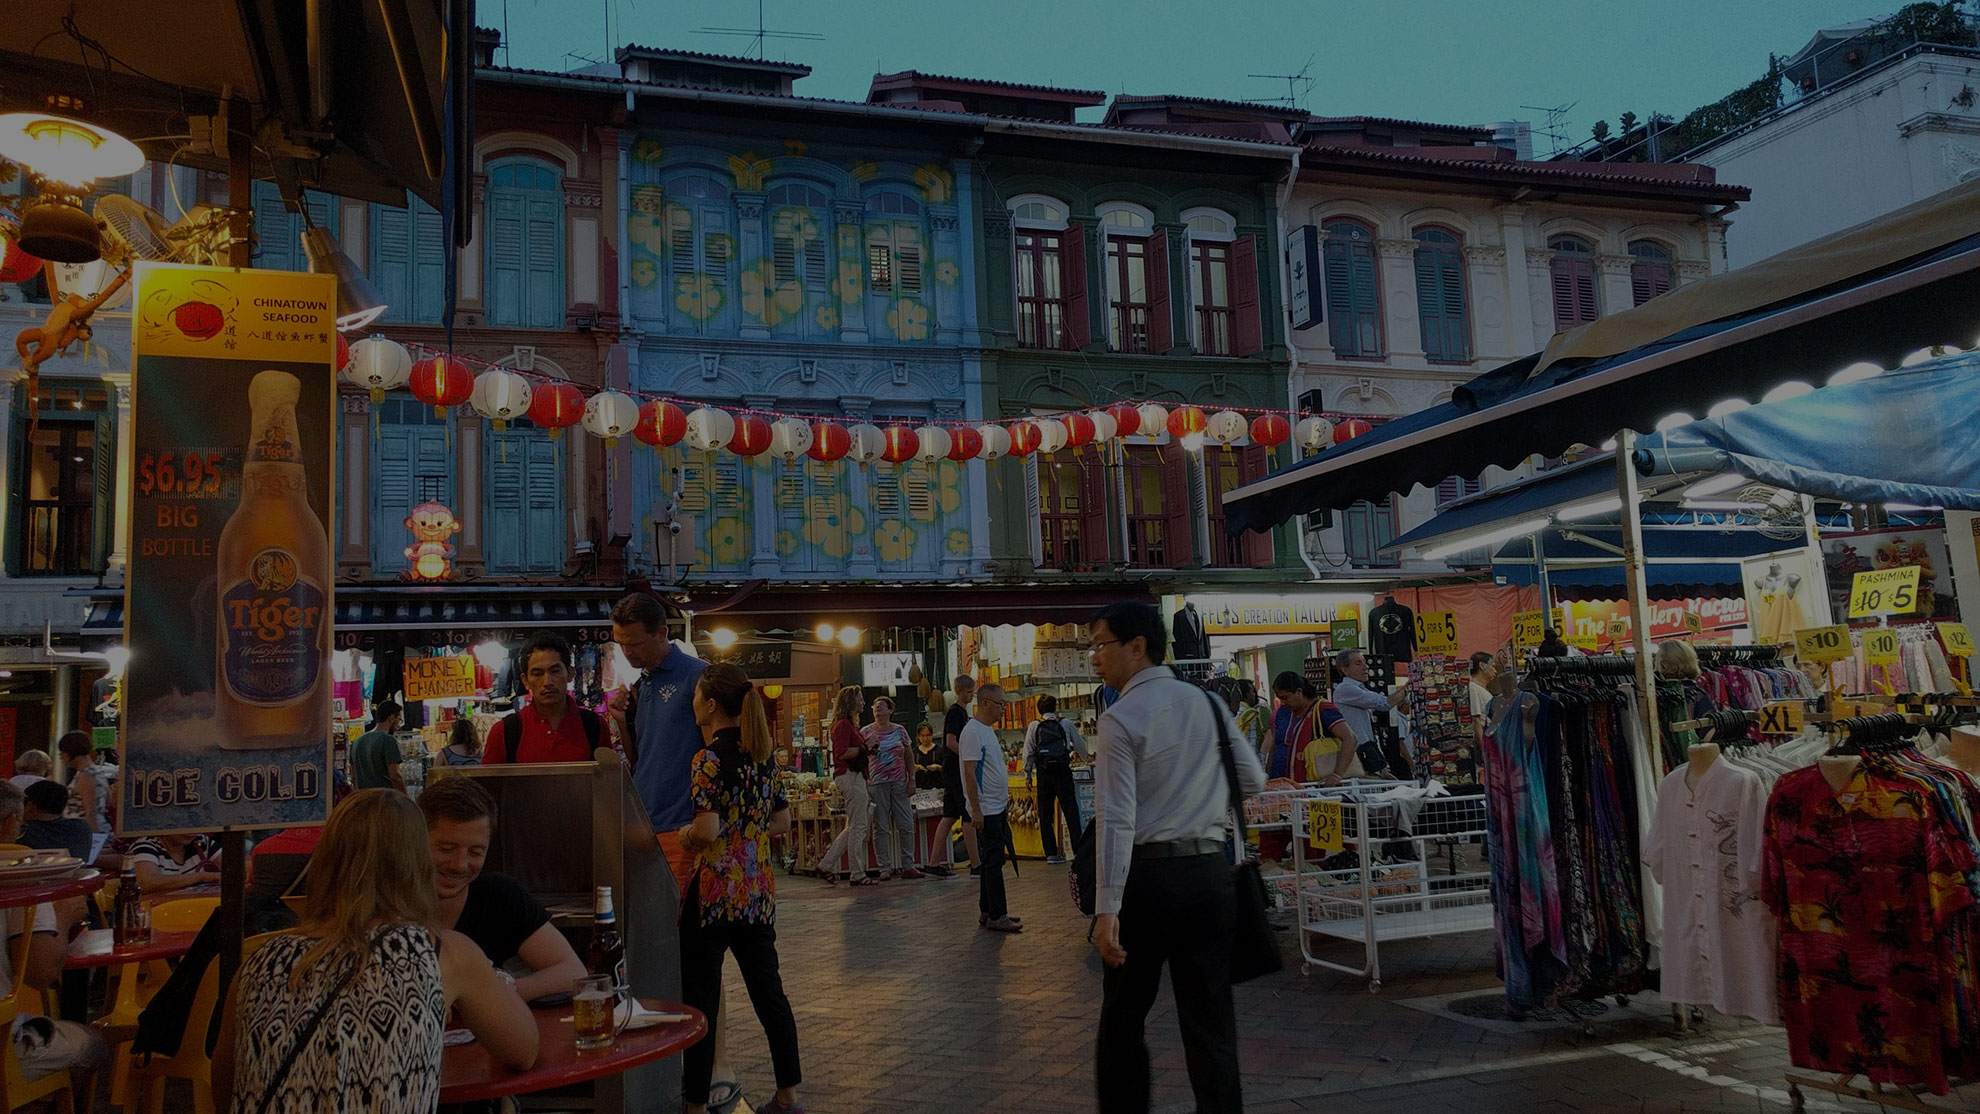
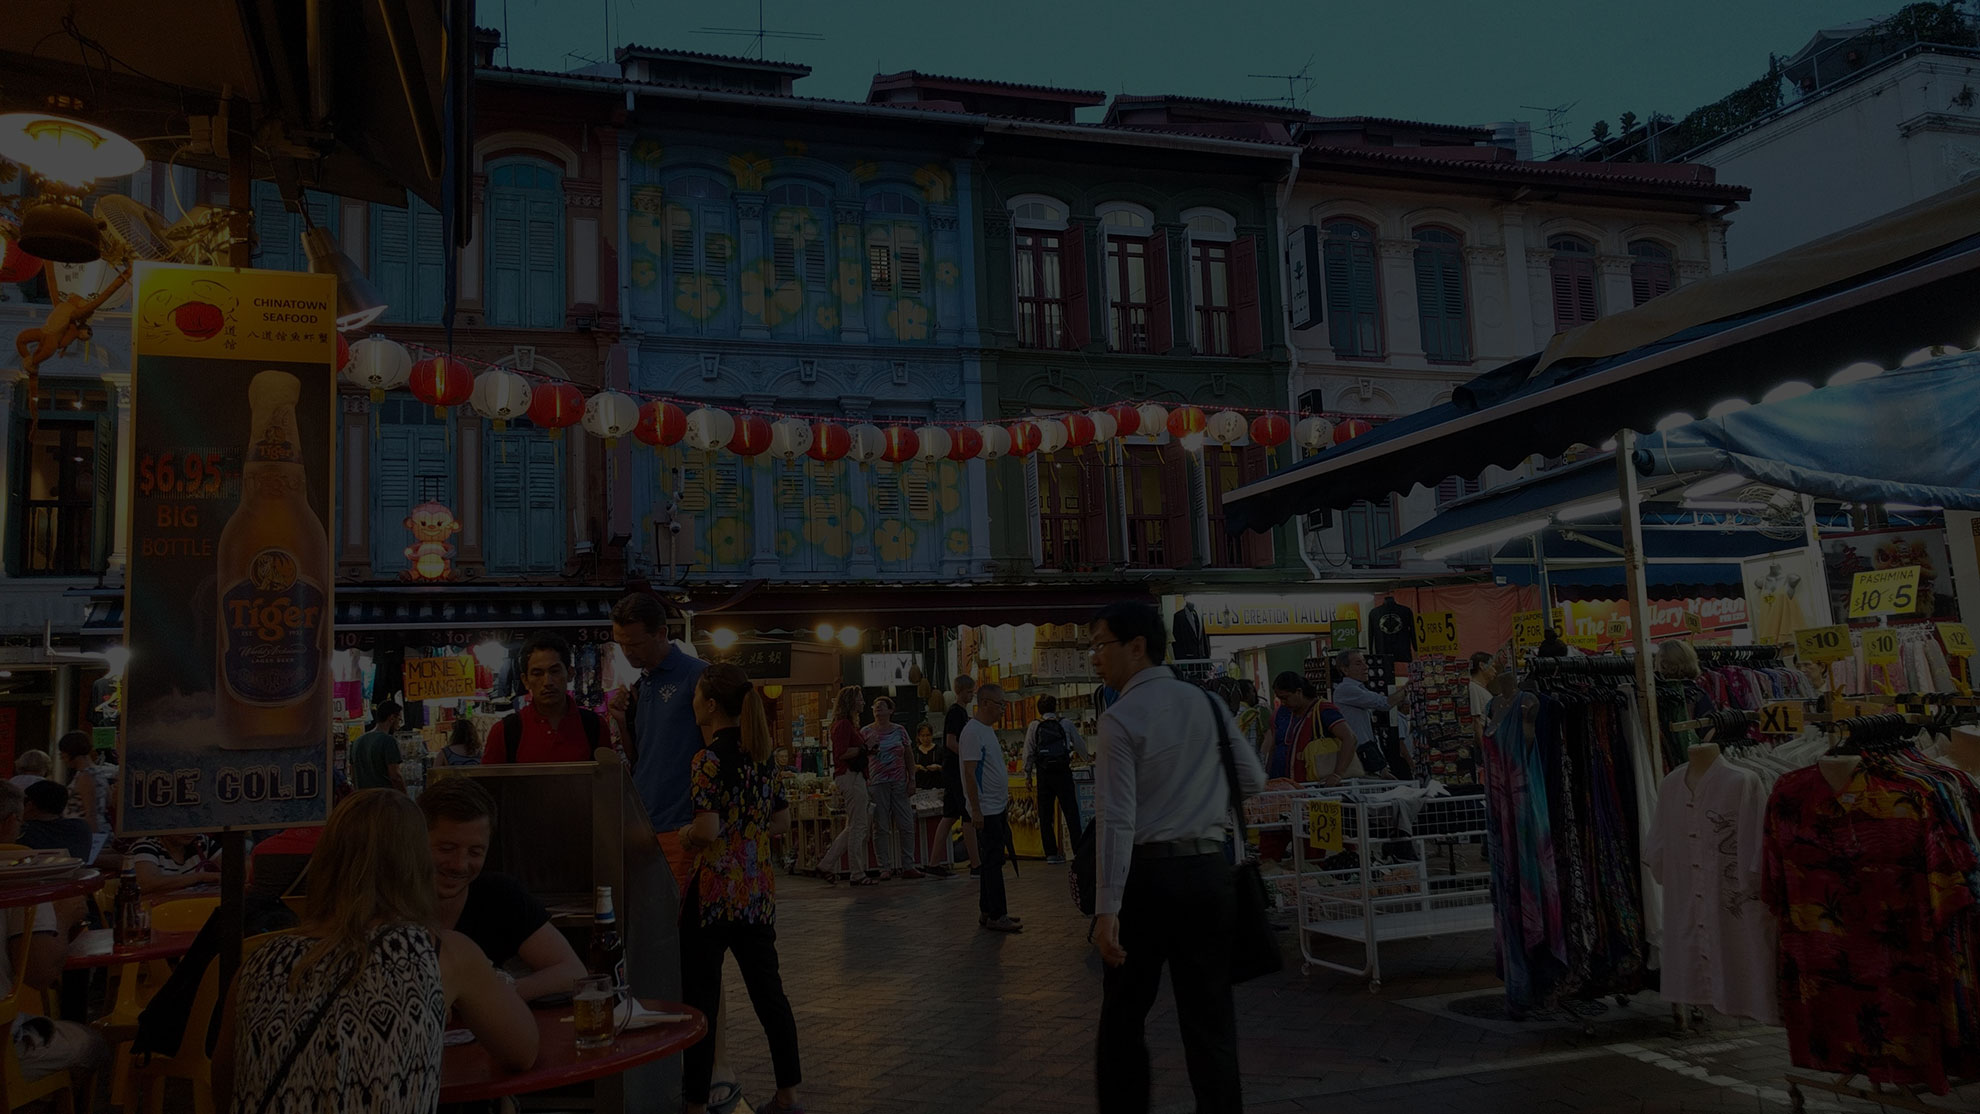
wip: poor attempt at animating phonemes

diff --git a/src/components/Input.vue b/src/components/Input.vue
@@ -1,6 +1,20 @@
 <template>
     <section class="phonetic-input">
-            <p>for when you can't remember <span class="phonetic-input--wrap"><span>{{ phonemeOne.phonetic }}</span> from <span>{{ phonemeTwo.phonetic }}</span></span></p>
+            <p>for when you can't remember
+                <span class="phonetic-input--wrap">
+                    <div>
+                        <ul>
+                            <li v-for="phoneme in phonemeOneList" style="color: white">{{phoneme.phonetic}}</li>
+                        </ul>
+                    </div>
+                    <!--
+                    from
+                    <ul v-for="phoneme in phonemeTwoList">
+                        <li style="color: white">{{phoneme.phonetic}}</li>
+                    </ul>
+                -->
+                </span>
+            </p>
             <label id="phonetic-input--label" for="phonetic-input">Type in what you're trying to say</label>
             <input type="text" id="phonetic-input" class="phonetic-input" v-model="input" ref="phoneticInput" @keyup="updateOutput()" placeholder="Type in what you're trying to say" aria-labelledby="phonetic-input--label" autofocus>
     </section>
@@ -10,6 +24,7 @@
 import PhoneticAlphabet from '@/alphabet.json';
 
 const random = require('lodash/random');
+const includes = require('lodash/includes');
 
 export default {
   name: 'Input',
@@ -18,13 +33,17 @@ export default {
       input: '',
       phonemeOne: '',
       phonemeTwo: '',
+      phonemeOneList: [],
+      phonemeTwoList: [],
     };
   },
   mounted() {
     this.$root.$emit('phoneticUpdate', this.input);
+    this.initPhonemeLists();
     this.updatePhonetics();
 
     setInterval(() => {
+      this.updatePhonemeLists();
       this.updatePhonetics();
     }, 2000);
 
@@ -34,12 +53,55 @@ export default {
     updateOutput() {
       this.$root.$emit('phoneticUpdate', this.input);
     },
+    addPhonemeToLists() {
+      let phonemeOne = this.getRandomPhoneme();
+      if (this.phonemeOneList.length > 0) {
+        while (includes(this.phonemeOneList, phonemeOne)) {
+          phonemeOne = this.getRandomPhoneme();
+        }
+      }
+      this.phonemeOneList.push(phonemeOne);
+
+      let phonemeTwo = this.getRandomPhoneme();
+      while (phonemeOne === phonemeTwo) {
+        phonemeTwo = this.getRandomPhoneme();
+      }
+      if (this.phonemeTwoList.length > 0) {
+        while (includes(this.phonemeTwoList, phonemeTwo)) {
+          phonemeTwo = this.getRandomPhoneme();
+        }
+      }
+      this.phonemeTwoList.push(phonemeTwo);
+    },
+    initPhonemeLists() {
+      let x = 0;
+      for (x = 0; x < 3; x++) {
+        this.addPhonemeToLists();
+      }
+    },
+    updatePhonemeLists() {
+      const phonemeListOneElement = document.querySelector('.phonetic-input--wrap > div:first-child > ul');
+
+      function animate() {
+        // phonemeListOneElement.top 
+      }
+
+      const animateList = new Promise((resolve, reject) => {
+        setInterval(animate, 10);
+      });
+      this.addPhonemeToLists();
+      this.phonemeOneList.shift();
+      this.phonemeTwoList.shift();
+    },
     updatePhonetics() {
       this.phonemeOne = PhoneticAlphabet[random(0, 24)];
       this.phonemeTwo = PhoneticAlphabet[random(0, 24)];
       while (this.phonemeOne === this.phonemeTwo) {
         this.phonemeTwo = PhoneticAlphabet[random(0, 24)];
       }
+    },
+    getRandomPhoneme() {
+      return PhoneticAlphabet[random(0, 24)];
     },
   },
 };

diff --git a/src/assets/scss/components/_phonetic-input.scss b/src/assets/scss/components/_phonetic-input.scss
@@ -31,9 +31,29 @@ section.phonetic-input {
         margin-bottom: 25px;
         font-size: 1.2em;
 
-        .phonetic-input--wrap > span {
-            min-width: 110px;
+        ul {
+            list-style: none;
+            padding: 0;
             display: inline-block;
+            max-width: 110px;
+            position: absolute;
+            top: -1px;
+            transform: translateY(-50%);
+            left: 0;
+        }
+
+        div {
+            display: inline-block;
+            position: relative;
+            min-width: 110px;
+            min-height: 36px;
+            top: 14px;
+            overflow: hidden;
+        }
+
+        .phonetic-input--wrap li {
+            min-width: 110px;
+            display: list-item;
             font-size: 1.25em;
             font-weight: 600;
             text-transform: lowercase;

diff --git a/src/assets/scss/components/_tile.scss b/src/assets/scss/components/_tile.scss
@@ -1,10 +1,8 @@
 .phonetic-tile {
     background: darken(#fff, 5%);
-    // box-shadow: 0 1px 3px 0 rgba(0,0,0,0.2), 0 1px 1px 0 rgba(0,0,0,0.14), 0 2px 1px -1px rgba(0,0,0,0.12);
     padding: 25px 20px;
     padding-bottom: 10px;
     cursor: default;
-    // transition: transform .2s ease-out, box-shadow .15s ease-out;
     border-radius: 2px;
     min-width: 75px;
     margin-bottom: 20px;
@@ -32,7 +30,7 @@
 
     h4 {
         font-family: 'Roboto', sans-serif;
-        text-align: right;
+        text-align: center;
         margin-top: 10px;
 
         @media (max-width: 500px) {

diff --git a/src/assets/scss/components/_phonetic-alphabet.scss b/src/assets/scss/components/_phonetic-alphabet.scss
@@ -1,9 +1,7 @@
 section.phonetic-alphabet {
     padding: 75px 25px 50px;
 
-    // border-top: 1px solid white;
-
-    background: linear-gradient(to bottom, rgba(0,0,0,0) 0%,rgba(0,0,0,0.25) 8%,rgba(0,0,0,0.48) 24%,rgba(0,0,0,0.65) 100%);
+    background: linear-gradient(to bottom, transparent 0%, rgba(0, 0, 0, 0.6) 8%, rgba(0, 0, 0, 0.6) 24%, rgba(0, 0, 0, 0.65) 100%);
 
     h2 {
         color: $white;

diff --git a/src/components/Output.vue b/src/components/Output.vue
@@ -1,5 +1,5 @@
 <template>
-    <div class="container">
+    <div class="container" v-on:keypress.left="phoneticMovePrevious" v-on:keypress.right="phoneticMoveNext">
         <section class="phonetic-output">
             <div class="output">
                 <span v-for="character in output" v-bind:class="[character.active ? 'active' : '', character.type]">{{ character.phonetic }}</span>

diff --git a/src/assets/scss/components/_header.scss b/src/assets/scss/components/_header.scss
@@ -1,5 +1,6 @@
 header {
     padding: 10px 15px;
+    border-top: 2px solid $pink;
 
     .container {
         > div:first-child {

diff --git a/src/assets/scss/_variables.scss b/src/assets/scss/_variables.scss
@@ -1,4 +1,4 @@
 $pink: #ed4985;
-$blue: #0d91f3;
+$blue: #5585aa;
 $black: #000;
 $white: #fff;
